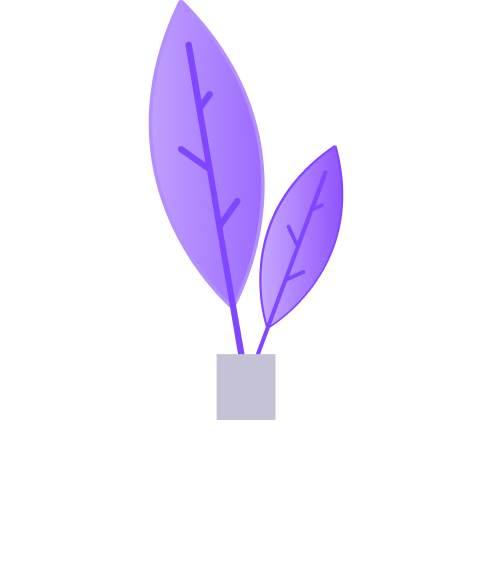
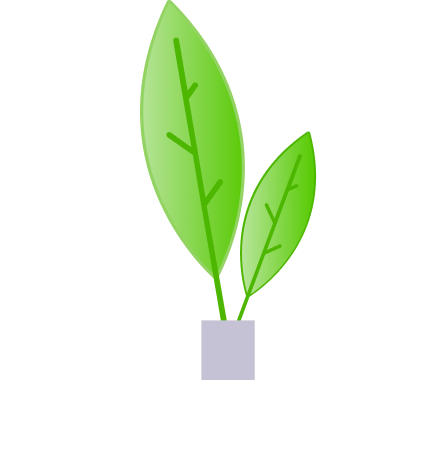
login ui styling

Changed region(s): [[0.3037, 0.0, 0.7593, 0.8522]]

diff --git a/src/views/pages/auth/Login.tsx b/src/views/pages/auth/Login.tsx
@@ -62,8 +62,8 @@ const LoginV2 = ({ mode }: { mode: Mode }) => {
   // Vars
   const darkImg = '/images/pages/auth-v2-mask-dark.png'
   const lightImg = '/images/pages/auth-v2-mask-light.png'
-  const darkIllustration = '/images/illustrations/auth/v2-login-dark.png'
-  const lightIllustration = '/images/illustrations/auth/v2-login-light.png'
+  const darkIllustration = '/images/illustrations/auth/login-man-invoice.png'
+  const lightIllustration = '/images/illustrations/auth/login-man-invoice.png'
   const borderedDarkIllustration = '/images/illustrations/auth/v2-login-dark-border.png'
   const borderedLightIllustration = '/images/illustrations/auth/v2-login-light-border.png'
 

diff --git a/src/components/layout/shared/UserDropdown.tsx b/src/components/layout/shared/UserDropdown.tsx
@@ -7,6 +7,8 @@ import type { MouseEvent } from 'react'
 // Next Imports
 import { useRouter } from 'next/navigation'
 
+import { signOut } from 'next-auth/react'
+
 // MUI Imports
 import { styled } from '@mui/material/styles'
 import Badge from '@mui/material/Badge'
@@ -63,8 +65,7 @@ const UserDropdown = () => {
   }
 
   const handleUserLogout = async () => {
-    // Redirect to login page
-    router.push('/login')
+    await signOut({ callbackUrl: '/login' })
   }
 
   return (

diff --git a/src/configs/primaryColorConfig.ts b/src/configs/primaryColorConfig.ts
@@ -9,9 +9,9 @@ export type PrimaryColorConfig = {
 const primaryColorConfig: PrimaryColorConfig[] = [
   {
     name: 'primary-1',
-    light: '#A379FF',
+    light: '#82BC00',
     main: '#82BC00',
-    dark: '#7E4EE6'
+    dark: '#82BC00'
   },
   {
     name: 'primary-2',
